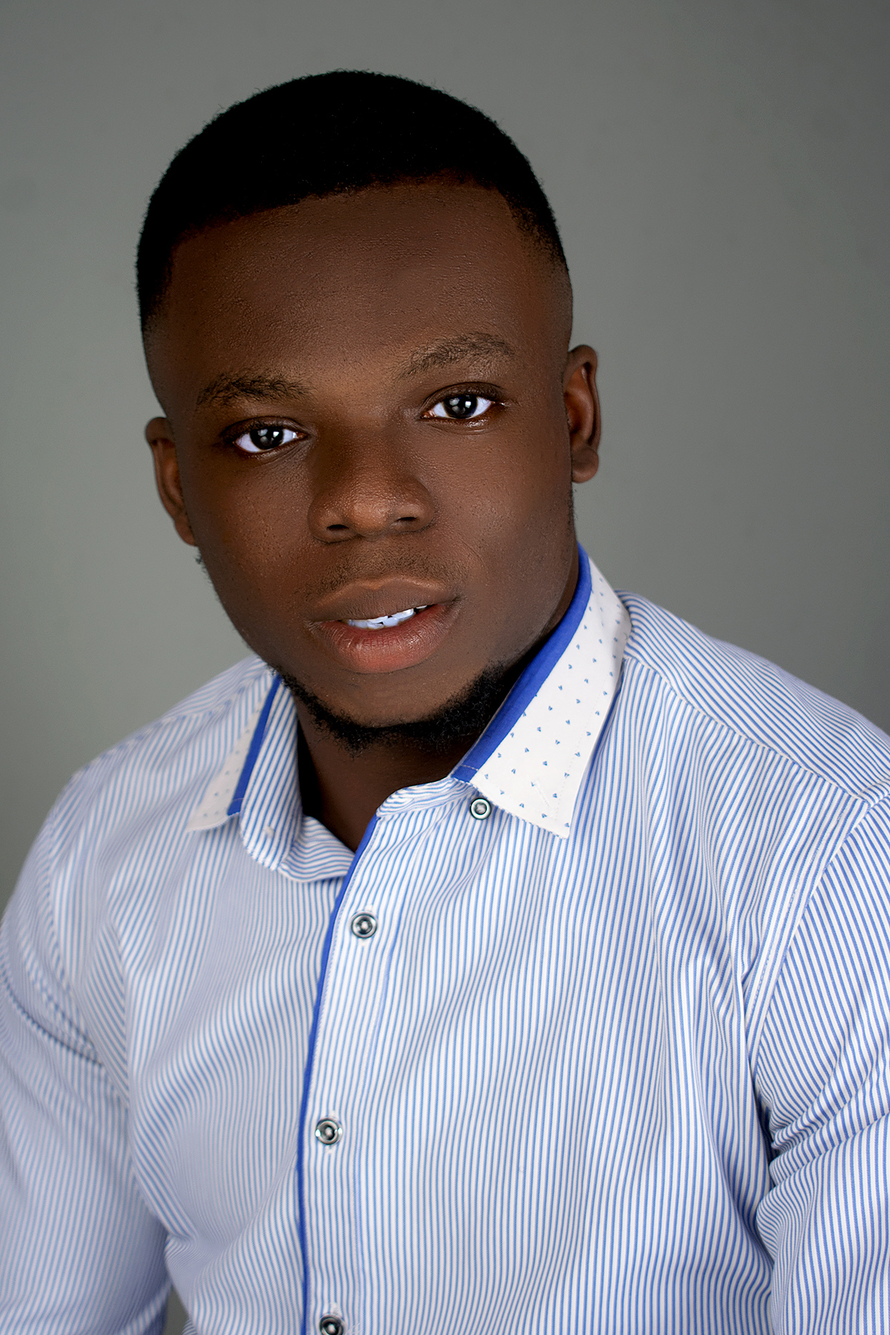
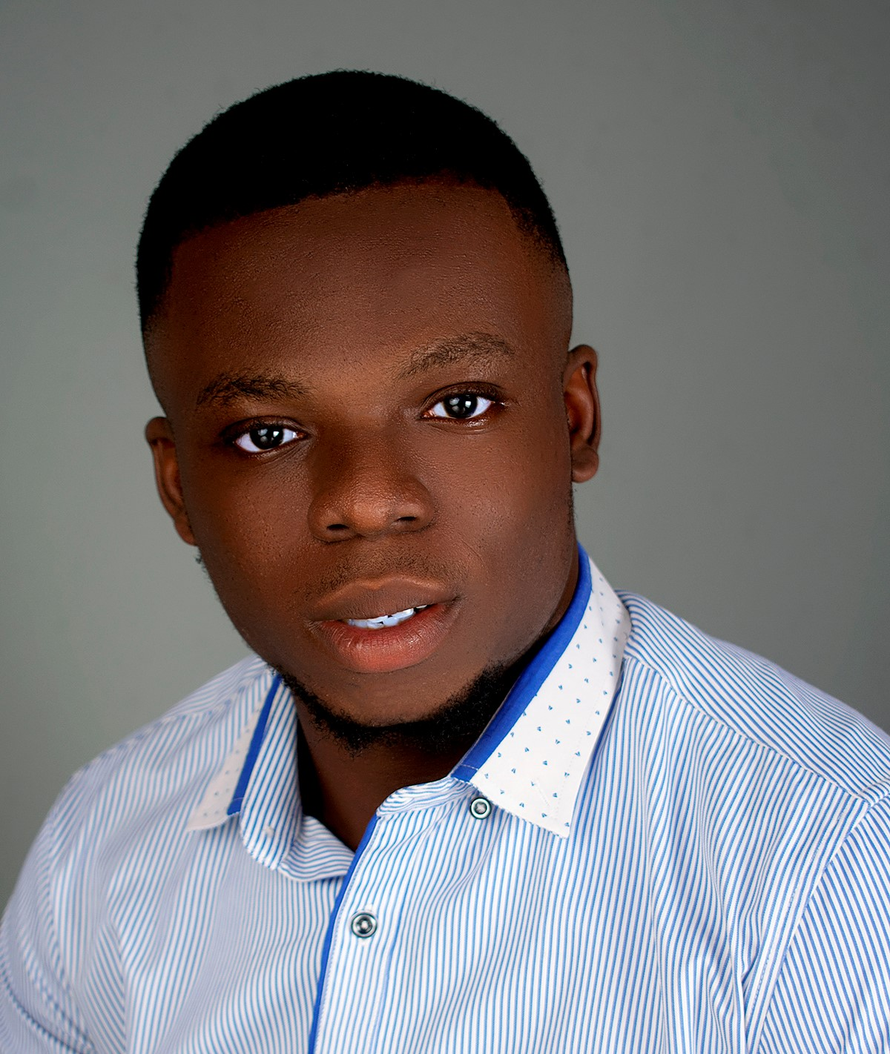
feat: fixed portfolio image, fixed carousel

diff --git a/Index.html b/Index.html
@@ -53,7 +53,7 @@
     </header>
     
     <main id="About-section">
-        <section class="container" >
+        <section class="container pt-5" >
             <div class="row mt-5">
                 <div class="col-sm-4 imagine">
                     <h1>
@@ -75,7 +75,10 @@
             <div>
                 <div class="row">
                     <div class="col about-me-img">
-                        <div class="image"></div>
+                        
+                        <div class="image">
+                            <img src="Images/Dumebi.JPG" alt="">
+                        </div>
                         <div class="rectangle"></div>
                     </div>
                     <div class="col pt-5 about-me">
@@ -84,8 +87,8 @@
                             enthusiastic. I love People & Technology. I believe in growth and productiveness.
                         </p>
                         <p>
-                            A passionate Web Developer with years of experience in <span class="frontend">FRONTEND</span> and <span class="backend">BACKEND</span> technologies
-                            ranging from HTML, CSS JS PHP, MYSQL, API’s
+                            A passionate Web Developer with a year of experience in <span class="frontend">FRONTEND</span> and <span class="backend">BACKEND</span> technologies
+                            ranging from HTML, CSS, JS PHP, REACT, MYSQL, API’s
                             that is focused on improving the usability of digital products. Skillful in web design and
                             development, graphics design, troubleshooting skills as well as able to
                             recommend solutions that facilitate IT.
@@ -296,10 +299,10 @@
                     <img class="d-block w-100" src="Images/mobi-website.png" alt="First slide">
                   </div>
                   <div class="carousel-item">
-                    <img class="d-block w-100" src="Images/mobi-website.png" alt="Second slide">
+                    <img class="d-block w-100" src="Images/nimdee-website.png" alt="Second slide">
                   </div>
                   <div class="carousel-item">
-                    <img class="d-block w-100" src="Images/mobi-website.png" alt="Third slide">
+                    <img class="d-block w-100" src="Images/githubfinda-website.png" alt="Third slide">
                   </div>
                 </div>
                 <a class="carousel-control-prev" href="#carouselExampleIndicators" role="button" data-slide="prev">

diff --git a/style.css b/style.css
@@ -68,11 +68,11 @@ h1 {
     color: white !important;
 }
 
-.image {
+.image img{
     position: absolute;
     width: 390px;
-    height: 400px;
-    background: url(Images/Dumebi.JPG);
+    height: 450px;
+    /* background: url(Images/Dumebi.JPG); */
     box-shadow: 0px 4px 10px rgba(0, 0, 0, 0.25);
     border-radius: 8px;
     margin-top: -2rem;
@@ -87,9 +87,12 @@ h1 {
     /* margin-top: 1rem; */
     width: 99.9%;
 }
+.carousel-item img {
+    height: 30rem;
+}
 .rectangle {
     width: 400px;
-    height: 400px;
+    height: 450px;
     border: 7px solid #F8C40C;
     box-sizing: border-box;
     border-radius: 8px;
